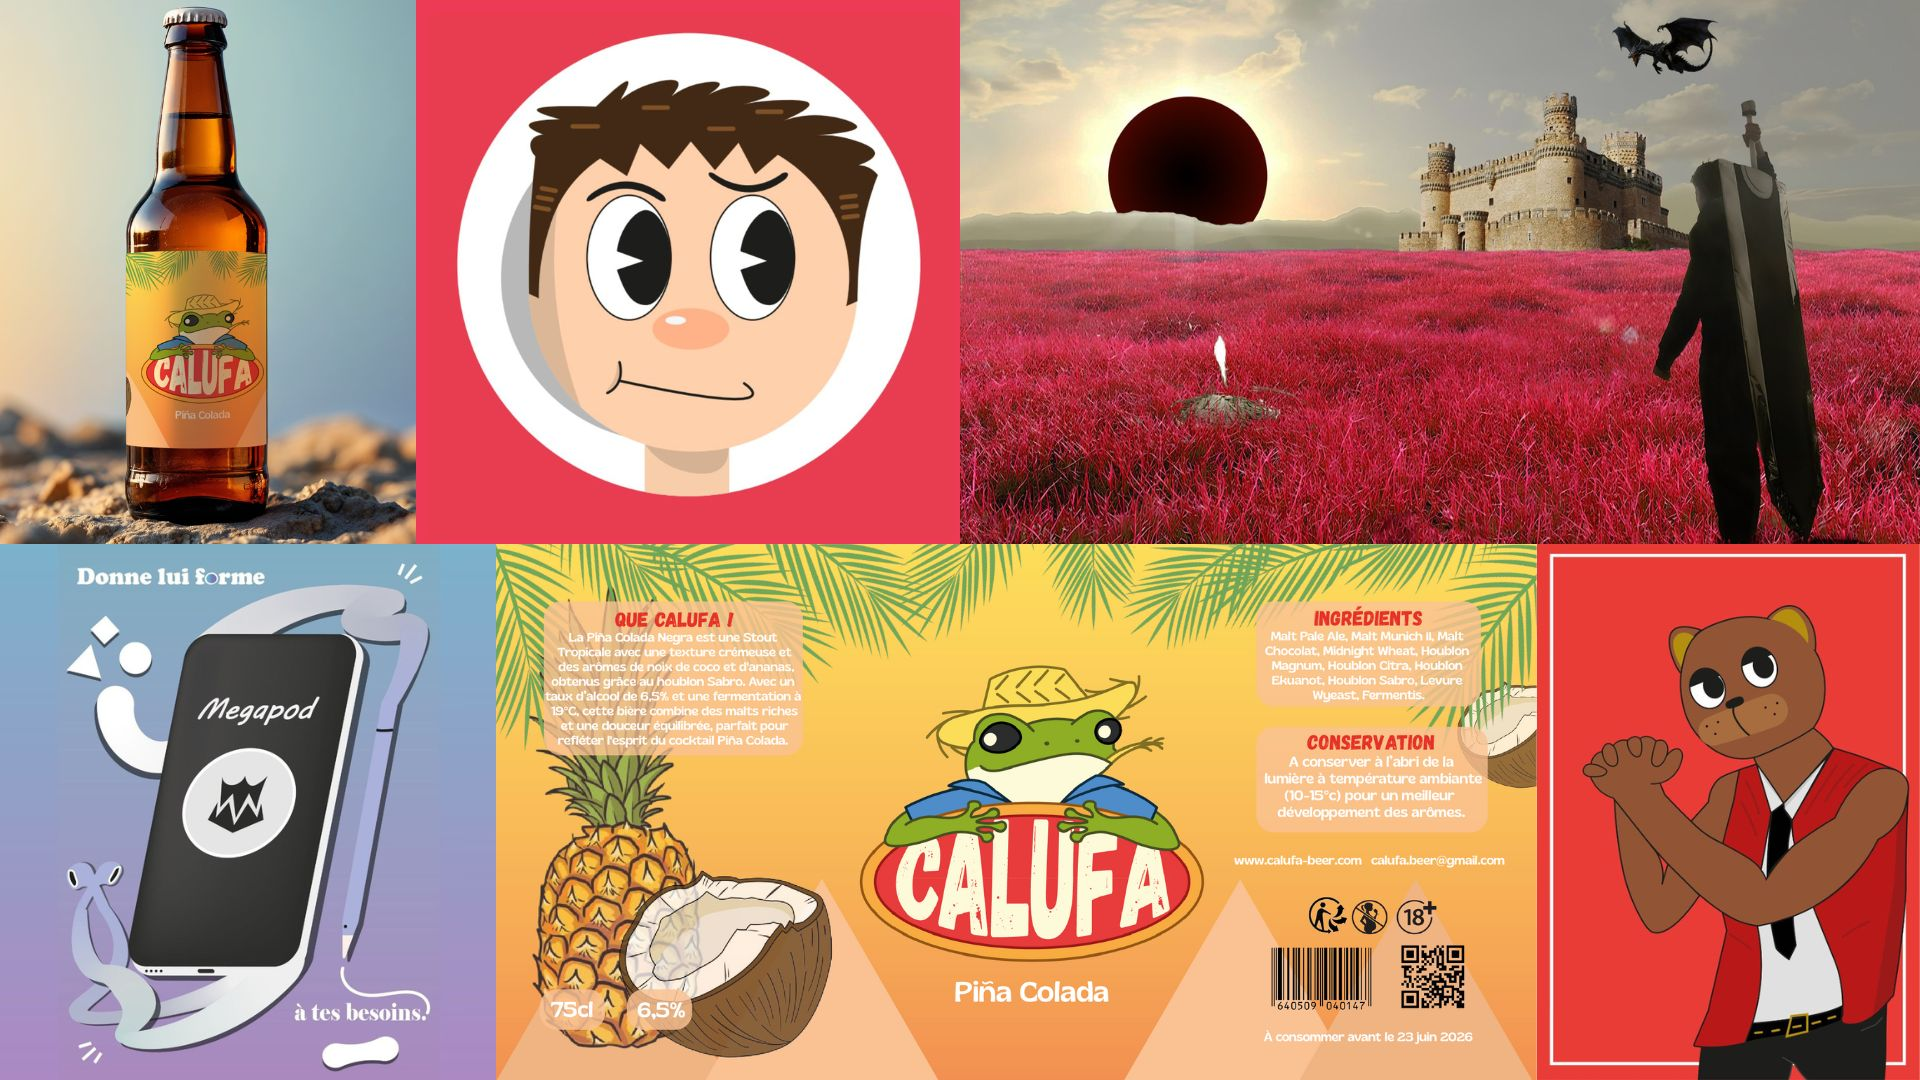
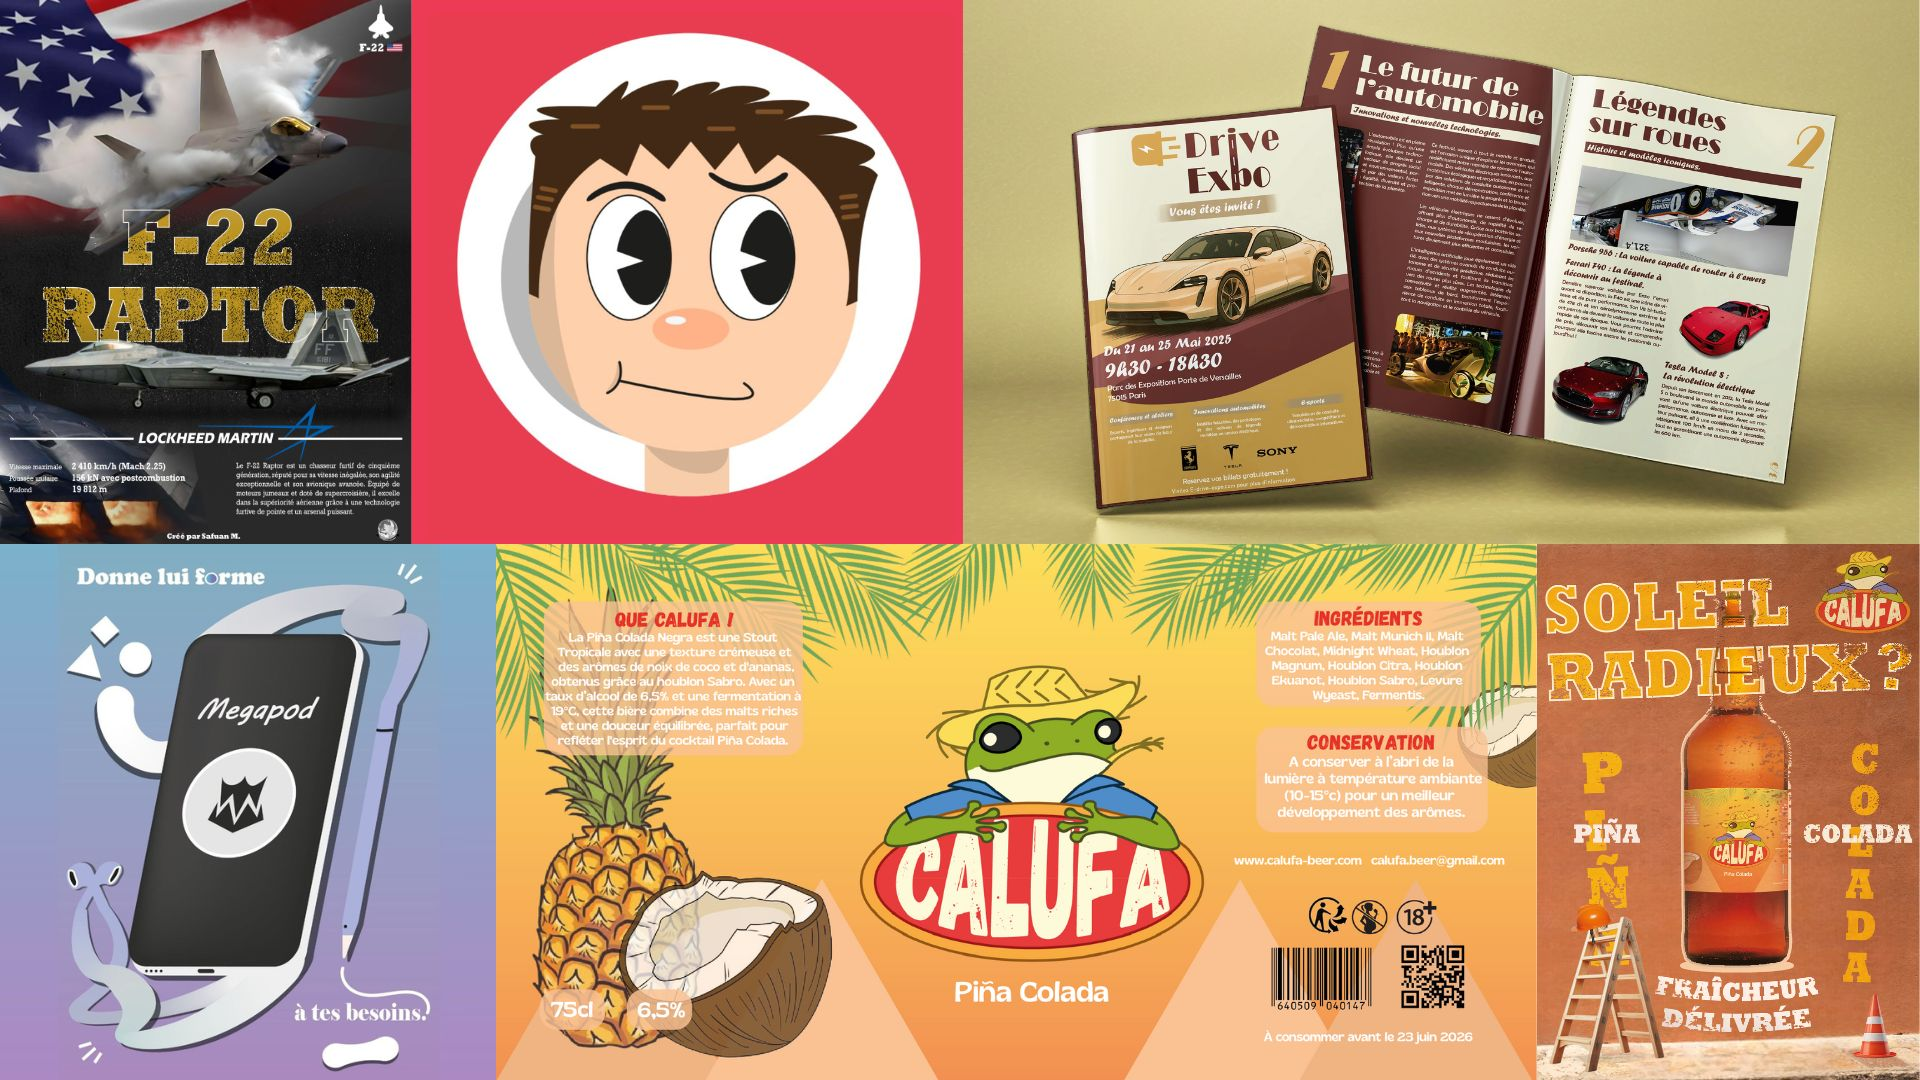
mis a jour

diff --git a/portfolio/badmoment.html b/portfolio/badmoment.html
@@ -1,0 +1,67 @@
+<!DOCTYPE html>
+<html lang="fr">
+
+<head>
+    <meta charset="UTF-8">
+    <meta name="viewport" content="width=device-width, initial-scale=1.0">
+    <title>Portfolio Safuan Mahroum</title>
+    <link rel="icon" href="../images/icon.png" type="image/png">
+    <link rel="stylesheet" href="../style.css">
+    <link rel="preconnect" href="https://fonts.googleapis.com">
+    <link rel="preconnect" href="https://fonts.gstatic.com" crossorigin>
+    <link href="https://fonts.googleapis.com/css2?family=Jersey+10&display=swap" rel="stylesheet">
+</head>
+
+<body class="intro background3">
+    <header>
+        <nav>
+            <ul>
+                <li><a href="../index.html">Safuan Mahroum</a></li>
+                <li><a href="#"><span style="color: #ff8a8a">PORTFOLIO</span></a></li>
+                <li><a href="../surmoi.html">SUR MOI</a></li>
+                <li><a href="../contact.html">CONTACT</a></li>
+            </ul>
+        </nav>
+    </header>
+
+    <main>
+        <h3 style="font-size: 3.2em; margin: 0.5em 0 0.4em;">BAD MOMENT - Clip</h3>
+
+        <div class="gallerie">
+            <iframe width="560" height="315" src="https://www.youtube.com/embed/wNk4g-XZJTM?si=_KMdEPuFndeAhdDr"
+                title="YouTube video player" frameborder="0"
+                allow="accelerometer; autoplay; clipboard-write; encrypted-media; gyroscope; picture-in-picture; web-share"
+                referrerpolicy="strict-origin-when-cross-origin" allowfullscreen></iframe>
+        </div>
+
+        <div>
+            <img src="../images/badmomentclip (2).jpg" width="33%" onclick="openFullscreen(this)" style="cursor: zoom-in;">
+                <img src="../images/badmomentclip (1).jpg" width="33%" onclick="openFullscreen(this)" style="cursor: zoom-in;">
+        </div>
+
+        <script src="../remonter.js"></script>
+    </main>
+
+    <footer>
+        <div class="reseauxsociaux">
+            <a href="https://www.linkedin.com/in/safuan-mahroum/" target="_blank"><img src="../images/linkedin.svg"></a>
+            <a href="https://www.youtube.com/@thepanterswit" target="_blank"><img src="../images/youtube.svg"></a>
+            <a href="https://github.com/SafuanMahroum" target="_blank"><img src="../images/github.svg"></a>
+            <a href="mailto:safuanmahroum@gmail.com"><img src="../images/mail.svg"></a>
+            <a href="tel:+33758478107"><img src="../images/call.svg"></a>
+        </div>
+
+        <div>
+            <p>2025 Safuan Mahroum Portfolio.</p>
+        </div>
+
+        <div class="creation">
+            <p>Ce site web a été créé avec :</p>
+            <img src="../images/htmlbanner2.png">
+            <img src="../images/cssbanner2.png">
+            <img src="../images/javascriptbanner2.png">
+        </div>
+    </footer>
+</body>
+
+</html>

diff --git a/portfolio.html b/portfolio.html
@@ -53,7 +53,7 @@
                 </div>
 
                 <div>
-                    <h3 style="margin: 0.3em;">Bière CALUFA</h3>
+                    <h3 style="margin: 0.3em;">Marque de bière CALUFA</h3>
 
                     <p style="margin: 0px 0 0.3em">
                         Création de toute une marque de bière puerto-ricain
@@ -90,15 +90,14 @@
 
             <article>
                 <div>
-                    <a href="portfolio/montages.html"><img class="projets" src="images/montages.jpg"></a>
+                    <a href="portfolio/badmoment.html"><img class="projets" src="images/badmoment.png"></a>
                 </div>
 
-                <div>
-                    <h3 style="margin: 0.3em;">Montages</h3>
+                <div style="padding: 0.1em;">
+                    <h3 style="margin: 0.2em;">BAD MOMENT - Clip</h3>
 
-                    <p style="margin: 0px 0 0.3em">
-                        Mes montages vidéo réalisés<br>
-                        dans plusieurs projets universitaires
+                    <p style="margin: 0;">
+                        Création d'un clip autour d'une musique choisie pour raconter une histoire sur l'abus de l'alcool.
                     </p>
 
                     <img style="width: 30%; margin: 0;" src="images/premiereprobanner.png">
@@ -136,6 +135,38 @@
                     </p>
 
                     <img style="width: 30%; margin: 0;" src="images/photoshopbanner.png">
+                </div>
+            </article>
+
+            <article>
+                <div>
+                    <a href="portfolio/montages.html"><img class="projets" src="images/montages.jpg"></a>
+                </div>
+
+                <div>
+                    <h3 style="margin: 0.3em;">Montages</h3>
+
+                    <p style="margin: 0px 0 0.3em">
+                        Mes montages vidéo réalisés<br>
+                        dans plusieurs projets universitaires
+                    </p>
+
+                    <img style="width: 30%; margin: 0;" src="images/premiereprobanner.png">
+                </div>
+            </article>
+
+            <article>
+                <div>
+                    <a href="portfolio/videocv.html"><img class="projets" src="images/videocv.webp"></a>
+                </div>
+
+                <div style="padding: 0.5em;">
+                    <h3 style="margin: 0.3em;">Vidéo CV</h3>
+
+                    <p style="margin: 0em">
+                        Création de mon CV vidéo en anglais, présentant qui je suis et mes compétences techniques.
+                    </p>
+                    <img style="width: 30%; margin: 0;" src="images/premiereprobanner.png">
                 </div>
             </article>
 

diff --git a/portfolio/ilustrations.html b/portfolio/ilustrations.html
@@ -32,15 +32,20 @@
                 <img src="../images/fresay_coco.png" onclick="openFullscreen(this)" style="width: 33%;">
             </div>
             <div>
+                <img src="../images/f22raptor (1).jpg" onclick="openFullscreen(this)">
+                <img src="../images/affiche_calufa.jpg" onclick="openFullscreen(this)">
                 <img src="../images/ilustrations (3).jpg" onclick="openFullscreen(this)">
-                <img src="../images/ilustrations (4).jpg" onclick="openFullscreen(this)">
-                <img src="../images/ilustrations (5).png" onclick="openFullscreen(this)">
             </div>
+
+            <div>
+                <img src="../images/magazine1.jpg" width="40%" alt="Illustration" onclick="openFullscreen(this)" style="cursor: zoom-in; width: 33%;">
+                <img src="../images/magazine2.webp" width="33%" alt="Moodboard Festival" class="charte" onclick="openFullscreen(this)" style="cursor: zoom-in; width: 33%;"><br>
+            </div>
+
             <div>
                 <img src="../images/ilustrations (6).jpg" onclick="openFullscreen(this)">
-                <img src="../images/f22raptor (1).jpg" onclick="openFullscreen(this)" style="width: 22%; height: 1%;">
-                <img src="../images/affiche_calufa.jpg" onclick="openFullscreen(this)" style="width: 22%; height: 1%;">
-                
+                <img src="../images/ilustrations (4).jpg" onclick="openFullscreen(this)">
+                <img src="../images/ilustrations (5).png" onclick="openFullscreen(this)">   
             </div>
             <div>
                 <img src="../images/ilustrations (7).jpg" onclick="openFullscreen(this)" style="width: 22%; height: 1%;">
@@ -60,9 +65,12 @@
             </div>
 
             <div>
-                <img src="../images/magazine1.jpg" width="40%" alt="Illustration" onclick="openFullscreen(this)" style="cursor: zoom-in;">
-                <img src="../images/magazine2.webp" width="33%" alt="Moodboard Festival" class="charte" onclick="openFullscreen(this)" style="cursor: zoom-in;"><br>
+                <img src="../images/afficheexpodrive (2).png" width="20%" onclick="openFullscreen(this)" style="cursor: zoom-in;">
+                <img src="../images/afficheexpodrive (1).jpg" width="20%" onclick="openFullscreen(this)" style="cursor: zoom-in;">
+                <img src="../images/afficheexpodrive (1).png" width="20%" onclick="openFullscreen(this)" style="cursor: zoom-in;">
             </div>
+
+            
 
             <div>
                 <img src="../images/ilustrations (2).jpg" onclick="openFullscreen(this)" style="width: 44%; height: 1%;">

diff --git a/portfolio/videocv.html b/portfolio/videocv.html
@@ -1,0 +1,62 @@
+<!DOCTYPE html>
+<html lang="fr">
+
+<head>
+    <meta charset="UTF-8">
+    <meta name="viewport" content="width=device-width, initial-scale=1.0">
+    <title>Portfolio Safuan Mahroum</title>
+    <link rel="icon" href="../images/icon.png" type="image/png">
+    <link rel="stylesheet" href="../style.css">
+    <link rel="preconnect" href="https://fonts.googleapis.com">
+    <link rel="preconnect" href="https://fonts.gstatic.com" crossorigin>
+    <link href="https://fonts.googleapis.com/css2?family=Jersey+10&display=swap" rel="stylesheet">
+</head>
+
+<body class="intro background3">
+    <header>
+        <nav>
+            <ul>
+                <li><a href="../index.html">Safuan Mahroum</a></li>
+                <li><a href="#"><span style="color: #ff8a8a">PORTFOLIO</span></a></li>
+                <li><a href="../surmoi.html">SUR MOI</a></li>
+                <li><a href="../contact.html">CONTACT</a></li>
+            </ul>
+        </nav>
+    </header>
+
+    <main>
+        <h3 style="font-size: 3.2em; margin: 0.5em 0 0.4em;">Vidéo CV</h3>
+
+        <div class="gallerie">
+           <iframe width="560" height="315" src="https://www.youtube.com/embed/ideCWEB1sPM?si=gAq5DN4pWVx8YQ0p"
+                title="YouTube video player" frameborder="0"
+                allow="accelerometer; autoplay; clipboard-write; encrypted-media; gyroscope; picture-in-picture; web-share"
+                referrerpolicy="strict-origin-when-cross-origin" allowfullscreen></iframe>
+        </div>
+
+        <script src="../remonter.js"></script>
+    </main>
+
+    <footer>
+        <div class="reseauxsociaux">
+            <a href="https://www.linkedin.com/in/safuan-mahroum/" target="_blank"><img src="../images/linkedin.svg"></a>
+            <a href="https://www.youtube.com/@thepanterswit" target="_blank"><img src="../images/youtube.svg"></a>
+            <a href="https://github.com/SafuanMahroum" target="_blank"><img src="../images/github.svg"></a>
+            <a href="mailto:safuanmahroum@gmail.com"><img src="../images/mail.svg"></a>
+            <a href="tel:+33758478107"><img src="../images/call.svg"></a>
+        </div>
+
+        <div>
+            <p>2025 Safuan Mahroum Portfolio.</p>
+        </div>
+
+        <div class="creation">
+            <p>Ce site web a été créé avec :</p>
+            <img src="../images/htmlbanner2.png">
+            <img src="../images/cssbanner2.png">
+            <img src="../images/javascriptbanner2.png">
+        </div>
+    </footer>
+</body>
+
+</html>

diff --git a/contact.html b/contact.html
@@ -33,9 +33,9 @@
 
         <p class="sous-titre" style="font-size: 1.6em; margin: 0 0 1em;">Je vous invite a me contacter par :<br>
         <span style="color: aliceblue;">
-                Mail : safuanmahroum@gmail.com<br>
-                Teléphone : 07 58 47 81 07<br>
-                LinkedIn : Safuan Mahroum</span></p>
+                <a href="mailto:safuanmahroum@gmail.com">Mail : safuanmahroum@gmail.com</a><br>
+                <a href="tel:+33758478107">Teléphone : 07 58 47 81 07<br></a>
+               <a href="https://www.linkedin.com/in/safuan-mahroum/"> LinkedIn : Safuan Mahroum</span></p></a><br>
 
         <a href="doc/CV_SafuanMAHROUM.pdf" download="CV_SafuanMAHROUM.pdf" class="bouton">Télécharger mon CV</a>
 
@@ -46,14 +46,17 @@
                 <input class="mail_input" type="text" name="from_name" id="from_name" placeholder="Nom" maxlength="100"
                     required>
             </div>
-            <div class="mail">
-                <textarea class="mail_input" name="message" id="message" placeholder="Message" maxlength="2000"
-                    required></textarea>
-            </div>
+
             <div class="mail">
                 <input class="mail_input" type="email" name="email_id" id="email_id" placeholder="Mail" maxlength="50"
                     required>
             </div>
+            
+            <div class="mail">
+                <textarea class="mail_input" name="message" id="message" placeholder="Message" maxlength="2000"
+                    required></textarea>
+            </div>
+            
             <input class="bouton" type="submit" id="button" value="Envoyer">
         </form>
 

diff --git a/portfolio/montages.html b/portfolio/montages.html
@@ -28,21 +28,6 @@
         <h3 style="font-size: 3.2em; margin: 0.5em 0 0.4em;">Montages</h3>
 
         <div class="gallerie">
-            <iframe width="560" height="315" src="https://www.youtube.com/embed/wNk4g-XZJTM?si=_KMdEPuFndeAhdDr"
-                title="YouTube video player" frameborder="0"
-                allow="accelerometer; autoplay; clipboard-write; encrypted-media; gyroscope; picture-in-picture; web-share"
-                referrerpolicy="strict-origin-when-cross-origin" allowfullscreen></iframe>
-
-            <iframe width="560" height="315" src="https://www.youtube.com/embed/ideCWEB1sPM?si=gAq5DN4pWVx8YQ0p"
-                title="YouTube video player" frameborder="0"
-                allow="accelerometer; autoplay; clipboard-write; encrypted-media; gyroscope; picture-in-picture; web-share"
-                referrerpolicy="strict-origin-when-cross-origin" allowfullscreen></iframe>
-
-            <iframe width="560" height="315" src="https://www.youtube.com/embed/NCARnHIXZlA?si=_cmON0ZAj2K31bVH"
-                title="YouTube video player" frameborder="0"
-                allow="accelerometer; autoplay; clipboard-write; encrypted-media; gyroscope; picture-in-picture; web-share"
-                referrerpolicy="strict-origin-when-cross-origin" allowfullscreen></iframe>
-
             <iframe width="560" height="315" src="https://www.youtube.com/embed/ngUs2VkoiLE?si=6Lf1GuclpomjuMM1"
                 title="YouTube video player" frameborder="0"
                 allow="accelerometer; autoplay; clipboard-write; encrypted-media; gyroscope; picture-in-picture; web-share"

diff --git a/personnage1.html b/personnage1.html
@@ -27,8 +27,8 @@
     <section>
         <div class="surmoi">
             <div style="margin: 10em 0 0 0;">
-                <p><span style="color: pink; font-size: 2.6em;">Compétences principales :</span><br></p>
-                <p style="font-size: 2.6em; margin: 0 1em 1em 1em;">Monteur d'images :
+                <p><span style="color: pink; font-size: 2.4em;">Compétences principales :</span><br></p>
+                <p style="font-size: 2.1em; margin: 0 1em 1em 1em;">Monteur d'images :
                     <span style="color: #addeff">Photoshop</span>,
                     <span style="color: rgb(255, 188, 143);"> Illustrator</span>,<br>
                     <span style="color: rgb(208, 192, 252);"> Canva</span>.
@@ -46,8 +46,8 @@
             </div>
 
             <div style="margin: 10em 0 0 0;">
-                <p><span style="color: rgb(192, 214, 255); font-size: 2.6em;">Compétences secondaires :</span><br>
-                <p style="font-size: 2.6em; margin: 0 1em 1em 1em;">Il possede les sortilèges<br>
+                <p><span style="color: rgb(192, 214, 255); font-size: 2.4em;">Compétences secondaires :</span><br>
+                <p style="font-size: 2.1em; margin: 0 1em 1em 1em;">Il possede les sortilèges<br>
                     <span style="color: #81bee7">"Plume"</span> et
                     <span style="color: #81bee7">"Changement de dimension"</span>.<br>
                     <span style="color: #fde579">130p </span>de dégât initial.

diff --git a/personnage3.html b/personnage3.html
@@ -27,8 +27,8 @@
     <section>
         <div class="surmoi">
             <div style="margin: 10em 0 0 0;">
-                <p><span style="color: pink; font-size: 2.6em;">Compétences principales :</span><br>
-                <p style="font-size: 2.6em; margin: 0 1em 1em 1em;">Montage de maquettes :
+                <p><span style="color: pink; font-size: 2.4em;">Compétences principales :</span><br>
+                <p style="font-size: 2.1em; margin: 0 1em 1em 1em;">Montage de maquettes :
                     <span style="color: #a1e49b">Axure</span>,
                     <span style="color: rgb(255, 172, 179);">Figma</span>.<br>
                     <span style="color: rgb(208, 192, 252);"> Canva</span>.
@@ -48,8 +48,8 @@
             
 
             <div style="margin: 10em 0 0 0;">
-                <p><span style="color: rgb(192, 214, 255); font-size: 2.6em;">Compétences secondaires :</span><br>
-                <p style="font-size: 2.6em; margin: 0 1em 1em 1em;">Il possède les compétences<br>
+                <p><span style="color: rgb(192, 214, 255); font-size: 2.4em;">Compétences secondaires :</span><br>
+                <p style="font-size: 2.1em; margin: 0 1em 1em 1em;">Il possède les compétences<br>
                     <span style="color: #81e7d9">"Résilience"</span> et
                     <span style="color: #81e7d9">"Plan B"</span>.<br>
                     <span style="color: #fde579">130p </span>de dégât initial.

diff --git a/personnage2.html b/personnage2.html
@@ -27,8 +27,8 @@
     <section>
         <div class="surmoi">
             <div style="margin: 10em 0 0 0;">
-                <p><span style="color: pink; font-size: 2.6em;">Compétences principales :</span><br>
-                <p style="font-size: 2.6em; margin: 0 1em 1em 1em;">Montage Vidéo : 
+                <p><span style="color: pink; font-size: 2.4em;">Compétences principales :</span><br>
+                <p style="font-size: 2.1em; margin: 0 1em 1em 1em;">Montage Vidéo : 
                     <span style="color: #adadff">PremierePro</span>, 
                     <span style="color: rgb(154, 221, 154);">Filmora</span>.
                     <br>
@@ -45,8 +45,8 @@
             </div>
 
             <div style="margin: 10em 0 0 0;">
-                <p><span style="color: rgb(192, 214, 255); font-size: 2.6em;">Compétences secondaires :</span><br>
-                <p style="font-size: 2.6em; margin: 0 1em 1em 1em;">Il possede les enchantements<br>
+                <p><span style="color: rgb(192, 214, 255); font-size: 2.4em;">Compétences secondaires :</span><br>
+                <p style="font-size: 2.1em; margin: 0 1em 1em 1em;">Il possede les enchantements<br>
                     <span style="color: #81bee7">"Coupure"</span> et <span
                         style="color: #81bee7">"Sélection"</span>.<br>
                     <span style="color: #fde579">130p </span>de dégât initial.

diff --git a/index.html b/index.html
@@ -27,9 +27,9 @@
     <div class="bienvenue">
         <h1>SAFUAN MAHROUM</h1>
         <p class="sous-titre">
-            <span style="color: rgb(115, 178, 250);">Infographiste</span>/<span
-                style="color: rgb(238, 186, 89);">Vidéaste</span>/<span
-                style="color: rgb(110, 196, 115);">Designer</span>
+            <span style="color: rgb(115, 178, 250);">Vidéaste</span>/<span
+                style="color: rgb(238, 186, 89);">Infographiste</span>/<span
+                style="color: rgb(110, 196, 115);">Web Designer</span>
         </p>
         <p class="description">Bienvenue sur mon portfolio. Découvrez mes projets et réalisations,<br>
              fruits de ma passion pour la création.</p>
@@ -46,7 +46,7 @@
         </div>
 
         <div>
-            <p>2025 Safuan Mahroum Portfolio.</p>
+            <p>&copy; 2025 Safuan Mahroum Portfolio.</p>
         </div>
 
         <div class="creation">
